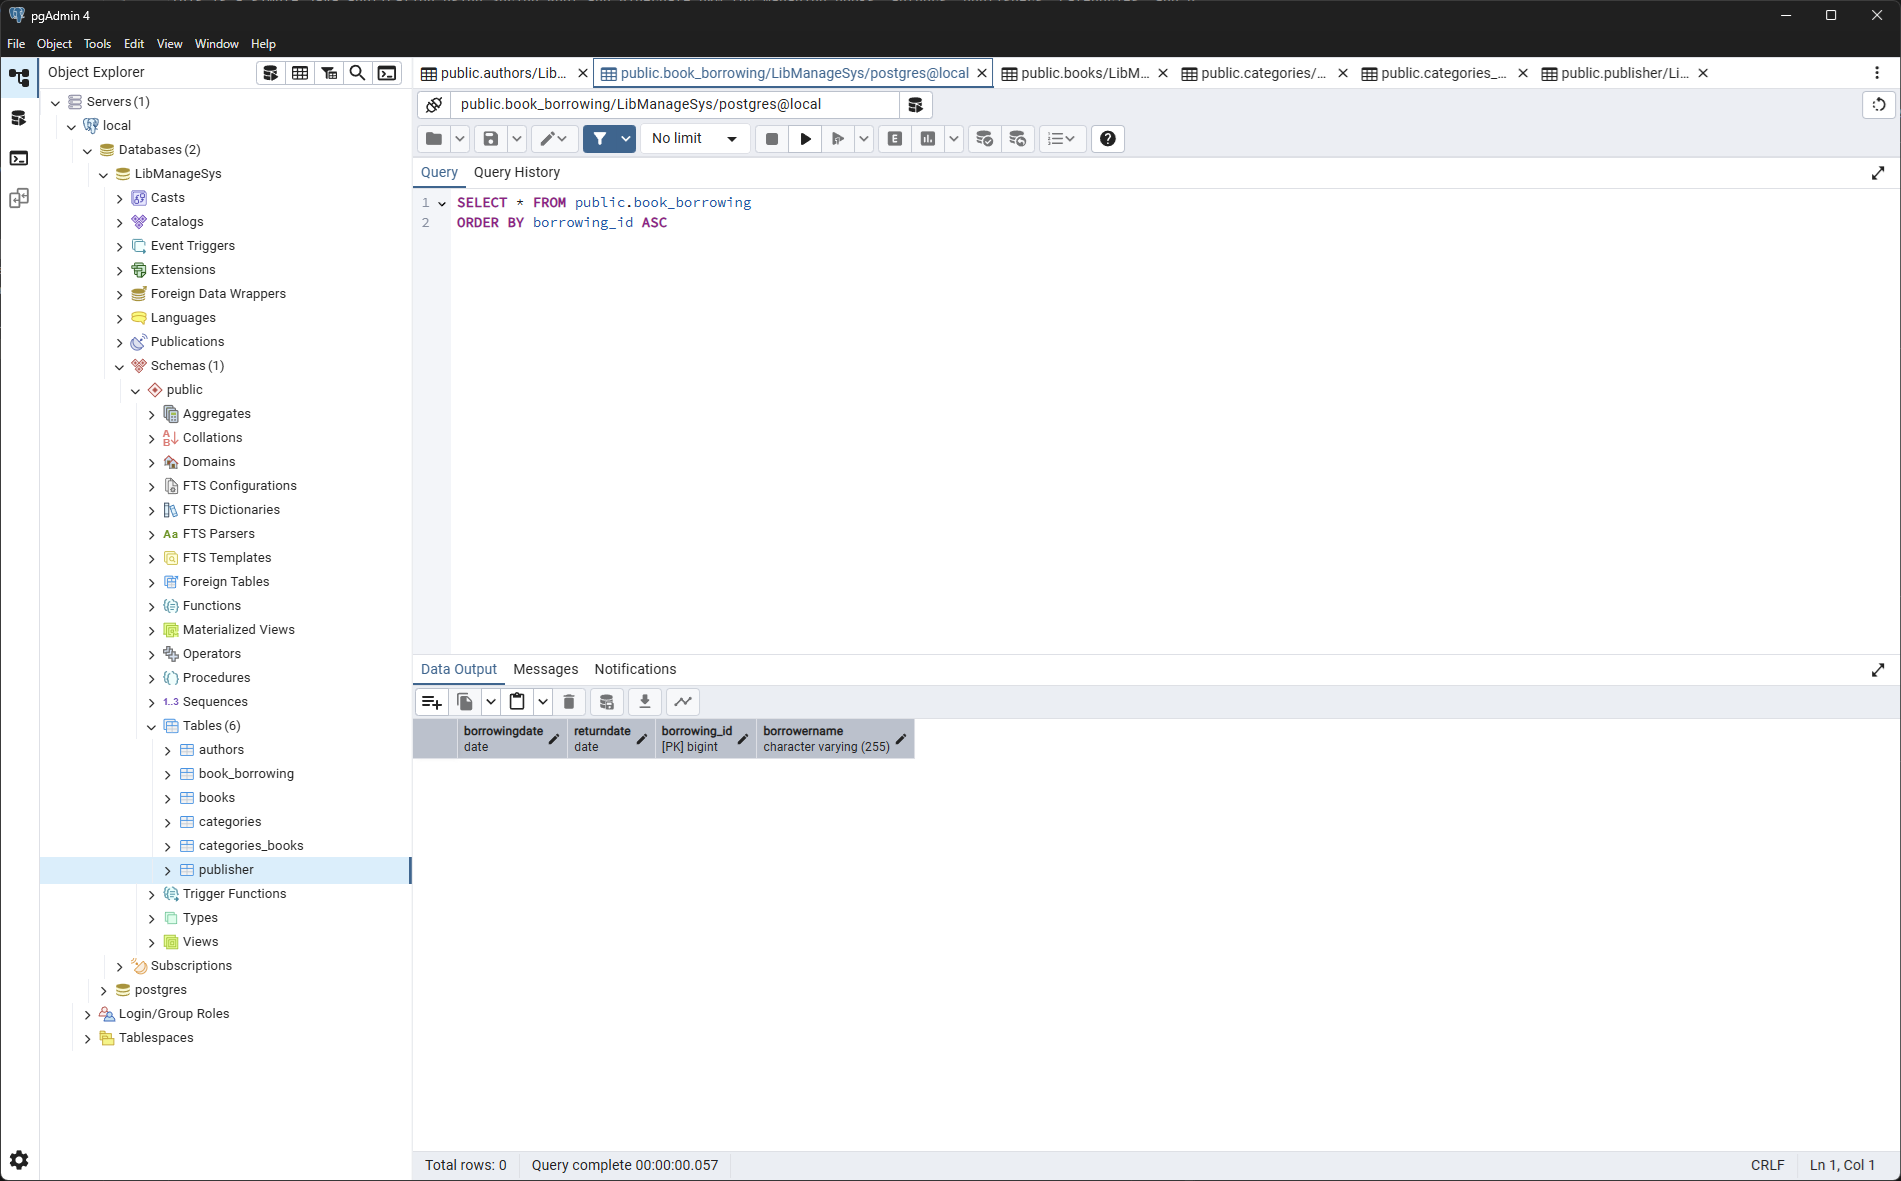
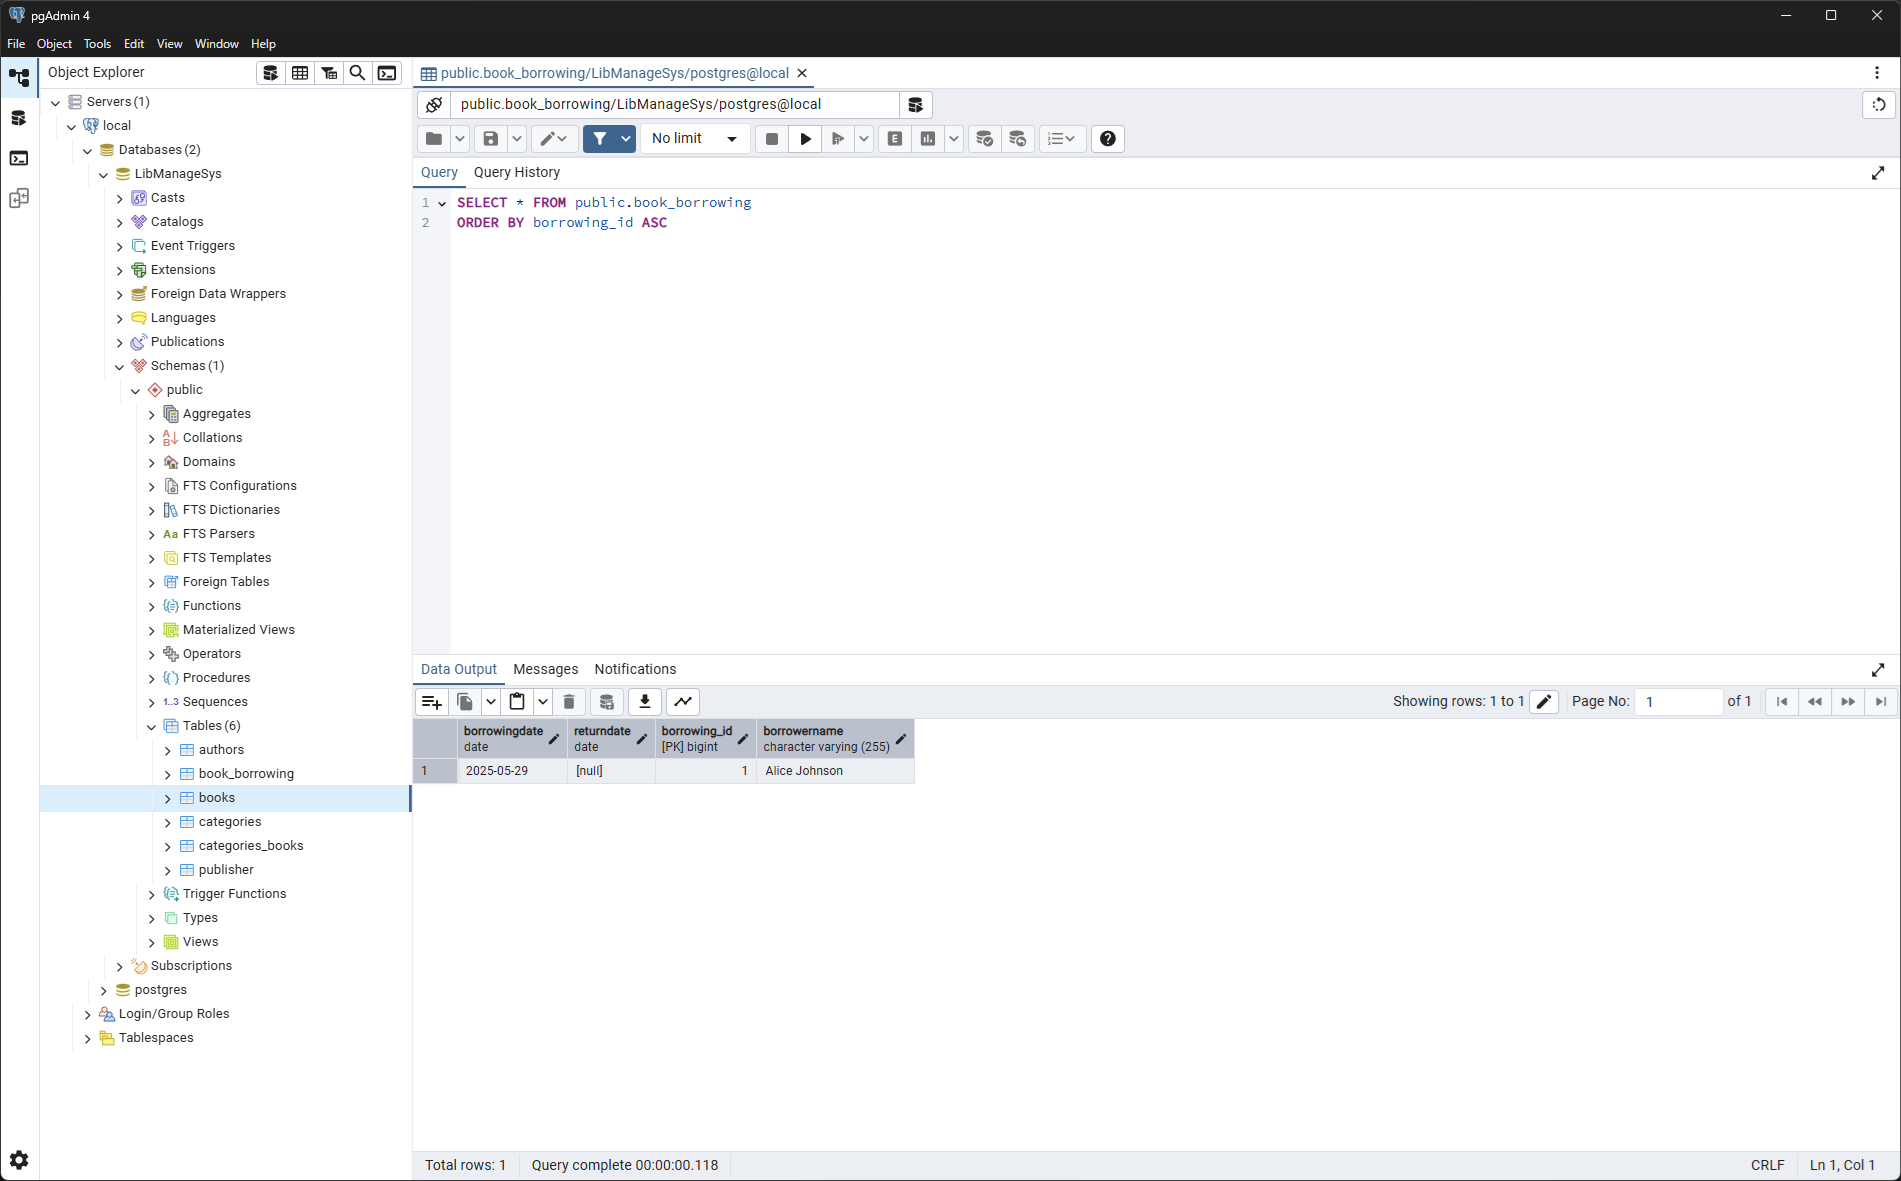
borrowing test implemented

diff --git a/12-hafta/Practice/LibManageSys/src/main/java/Main.java b/12-hafta/Practice/LibManageSys/src/main/java/Main.java
@@ -194,6 +194,23 @@ public class Main {
             session.persist(book4);
             session.persist(book5);
 
+
+            // Borrowing test
+            BookBorrowing borrowing1 = new BookBorrowing();
+            borrowing1.setBorrowerName("Alice Johnson");
+            borrowing1.setBorrowingDate(Date.valueOf("2025-05-29"));
+
+            // Assume book1 and book2 already exist and were persisted above
+            borrowing1.getBookList().add(book1);
+            borrowing1.getBookList().add(book2);
+
+            // Set the relationship on the Book side
+            book1.setBorrowing(borrowing1);
+            book2.setBorrowing(borrowing1);
+
+            session.persist(borrowing1);
+
+
             session.getTransaction().commit();
 
         } catch (Exception e) {
